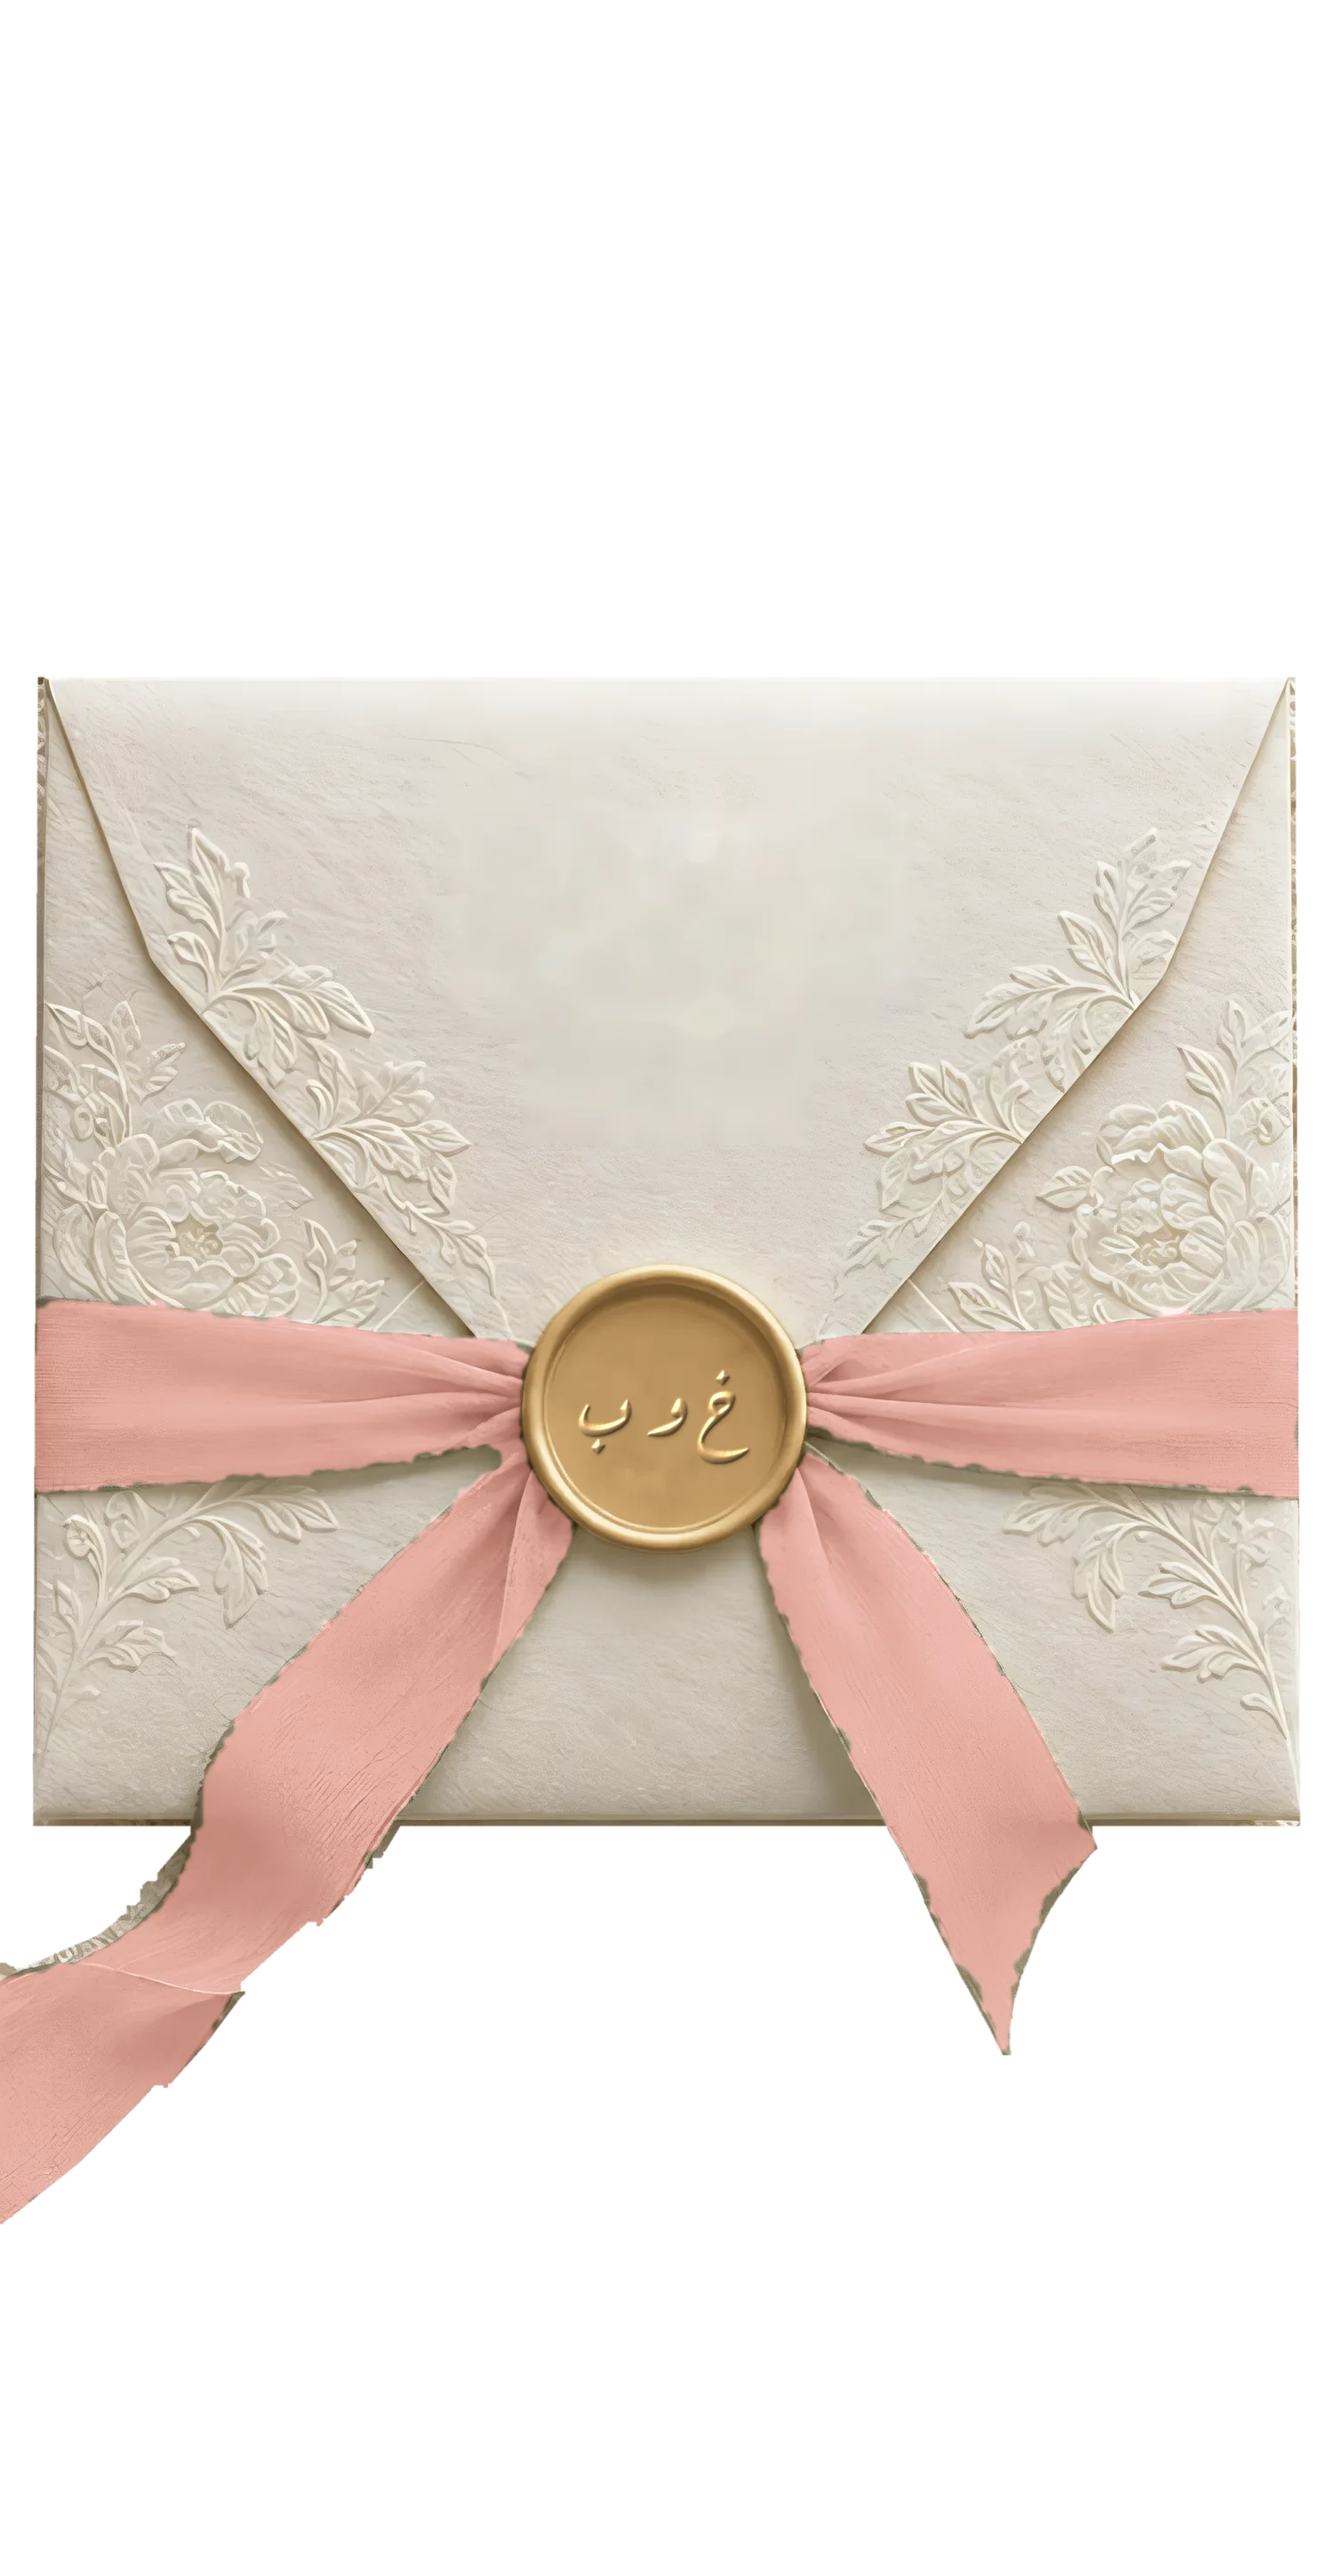
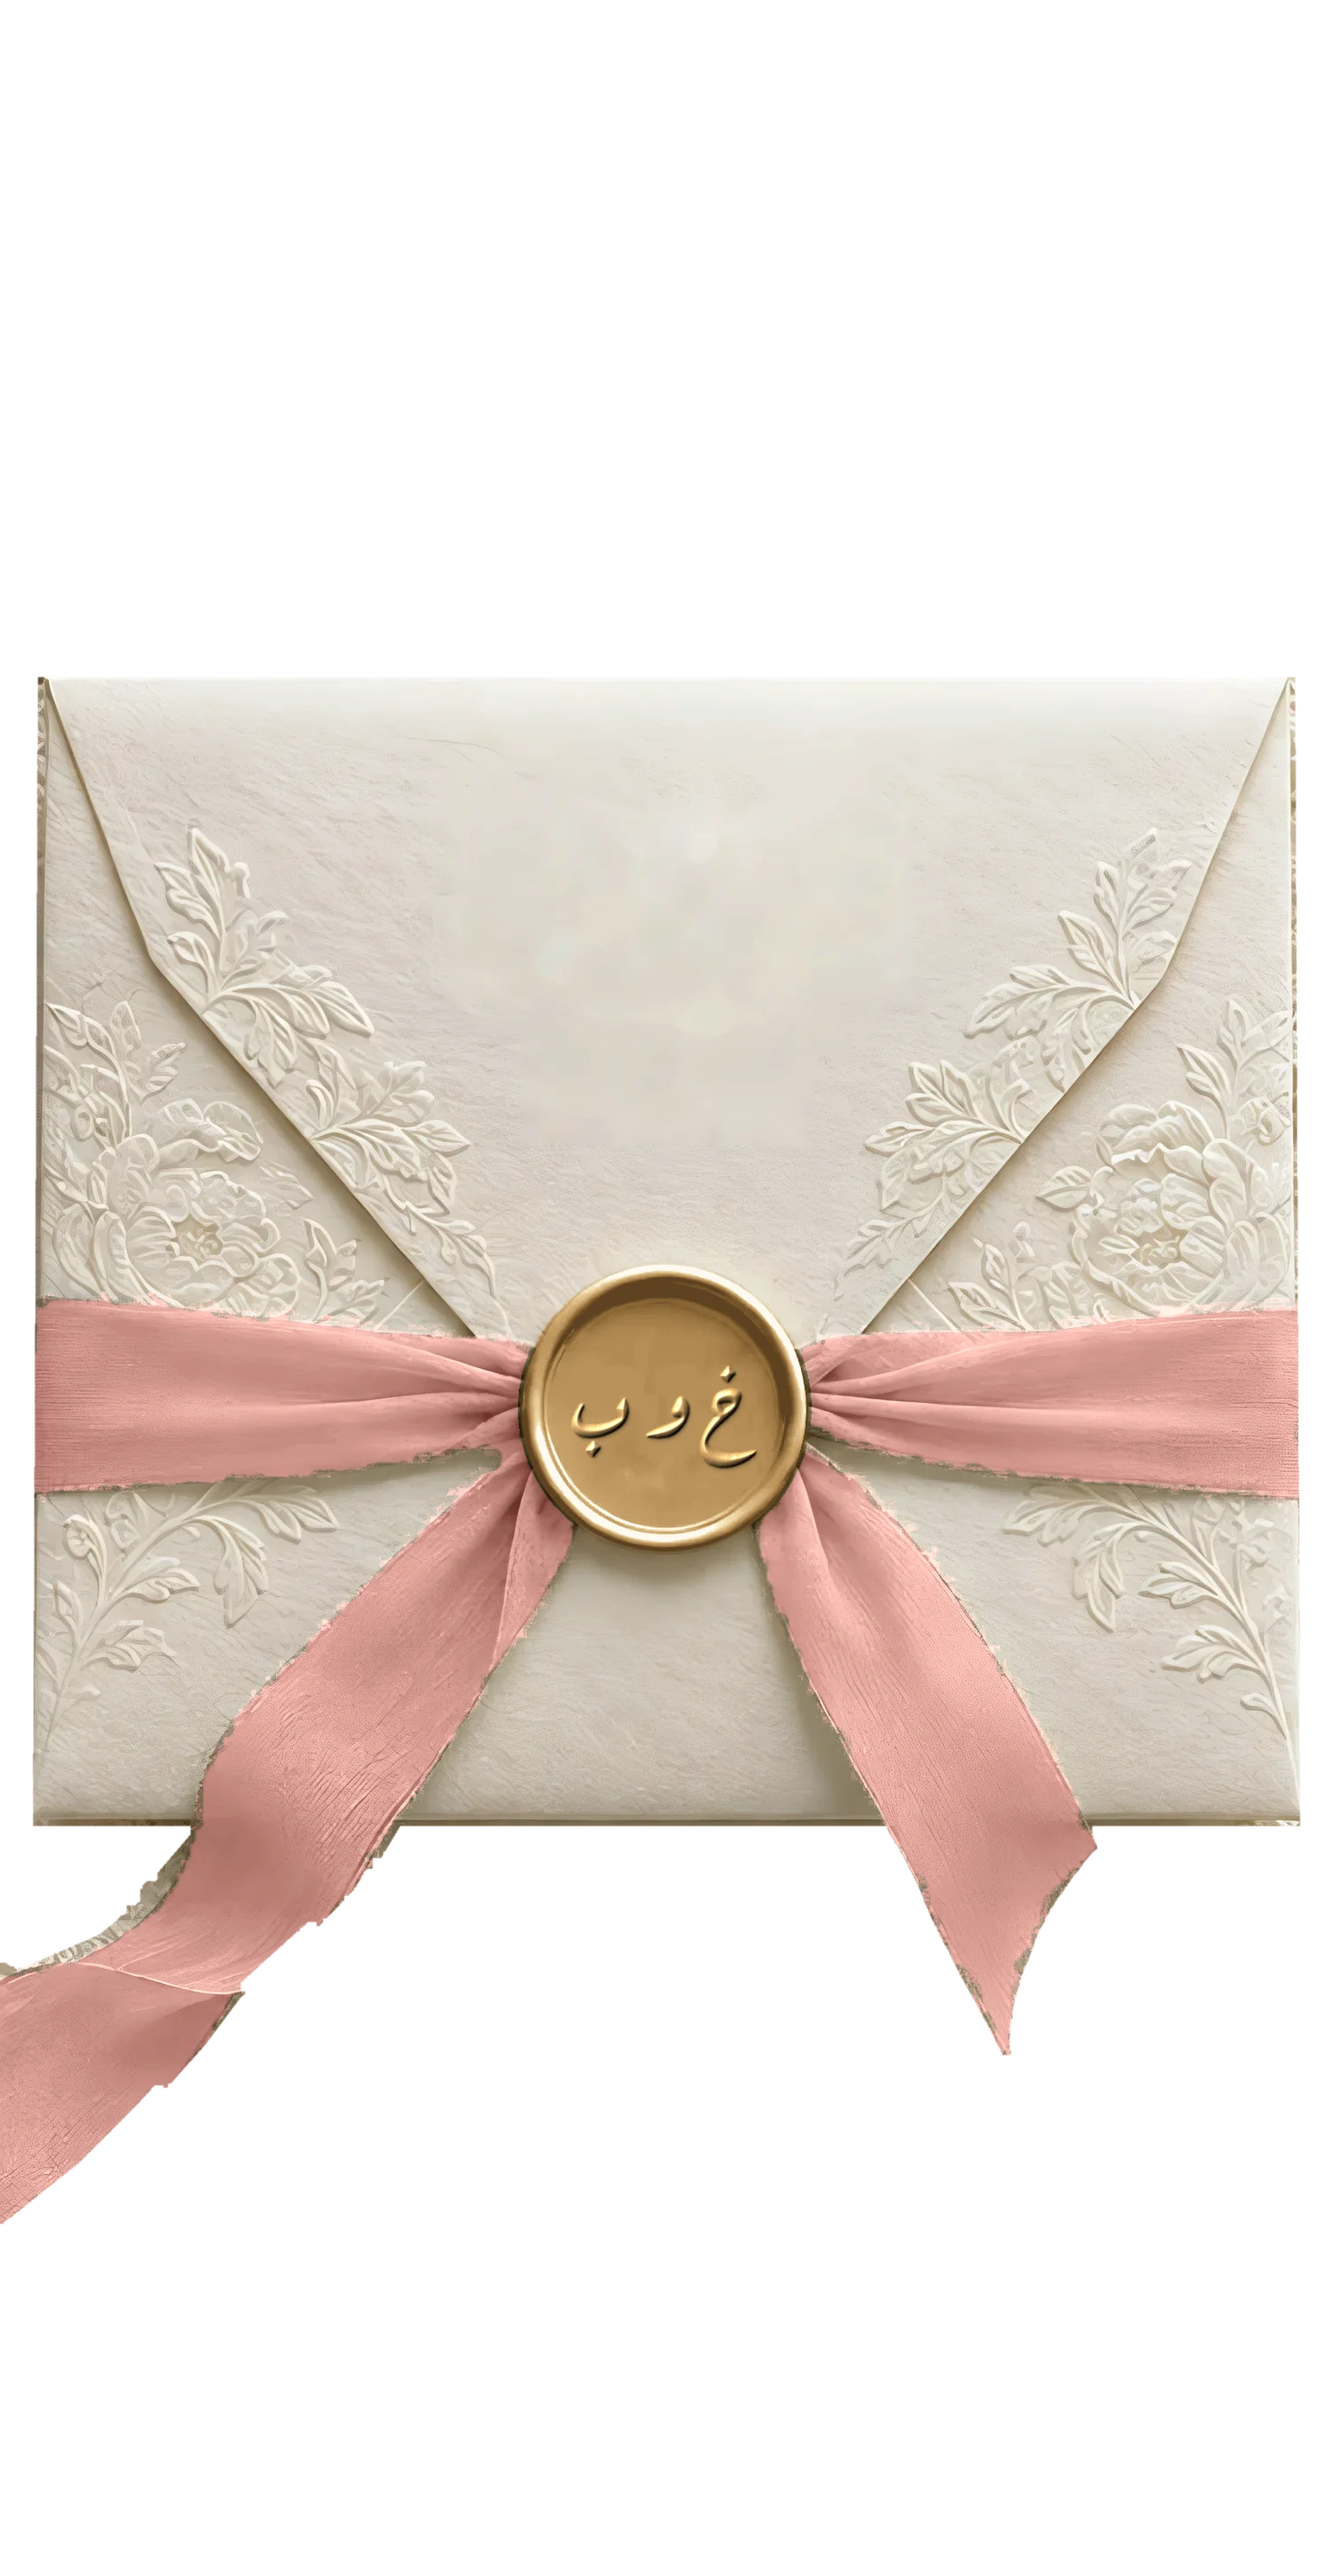
G55weuy بعد ملاحظة المالك ("عك كبير" — شاشة الظرف وحاجات تانية):
- الظرف: الشريطة اتلوّنت من جديد بطريقة بتحافظ على ضل ونور وملمس الشريطة الأصلية (اللون بس اللي اتغيّر)؛ قبل كده كانت خوخي سادة مسطّح وحوافها فيها بواقي رمادي/أخضر. الختم بقى دهبي معدني (لمعة وضل) والحروف "خ و ب" أكبر وأوضح.
- التهنئة الصوتية ورفع الصور: بقوا جزء من الدعوة نفسها (نفس الورق والخطوط والمقاسات بالنسبة لعرض الموبايل) بدل بلوك أبيض منفصل؛ العناوين مابتتكسرش على الشاشات الصغيرة.
- زرار الموسيقى بألوان الدعوة، وفراغ أصغر قبل "بكل محبة لضيوفنا الأعزاء".
- كارت المشاركة بالظرف الجديد.

Claude-Session: https://claude.ai/code/session_01VKo1mDPNtVn8Qfu3XE46sB

Changed region(s): [[0.3373, 0.4665, 0.6747, 0.622], [0.1533, 0.6842, 0.184, 0.7464], [0.0307, 0.5287, 0.0613, 0.5598]]

diff --git a/custom-invitations/G55weuy.js b/custom-invitations/G55weuy.js
@@ -75,12 +75,30 @@ body{background-color:#faf5ee}
 .sent b{color:#8c5a4b}
 /* مفيش ساعة لسه — السطر مستخبّي */
 [data-elem-id="pp15"]{display:none!important}
-/* التهنئة الصوتية ورفع الصور: بنفس ألوان الدعوة وخطوطها */
-#mithaq-extras.gx{--gx-ink:#3b2e2a;--gx-soft:#7a675f;--gx-gold:#c9a26b;--gx-gold2:#e3ab9d;--gx-line:rgba(59,46,42,.22);--gx-paper:#fffaf5;--gx-card:#fdf6f1;
-  --gx-disp:'Aref Ruqaa','Amiri',serif;--gx-body:'Amiri','Times New Roman',serif;--gx-caps:'Reem Kufi','Amiri',serif;margin:10cqw 6cqw 0}
-#mithaq-extras .gx-card{border-radius:4cqw}
-#mithaq-extras .gx-title{color:#8c5a4b}
+/* زرار الموسيقى بألوان الدعوة */
+#music{color:#a8685a;border-color:#dcc6a3}
+/* بعد "بانتظاركم بكل محبة" مفيش فراغ كبير (قسم ألوان اللبس مستخبّي) */
+[data-elem-id="pp45"]{margin-top:8cqw!important}
+/* التهنئة الصوتية ورفع الصور: جزء من الدعوة نفسها (نفس الورق والخطوط والمقاسات) — مش بلوك أبيض منفصل */
+#mithaq-extras.gx{--gx-ink:#3b2e2a;--gx-soft:#7a675f;--gx-gold:#c9a26b;--gx-gold2:#e3ab9d;--gx-line:rgba(59,46,42,.22);--gx-paper:transparent;--gx-card:rgba(255,250,245,.62);
+  --gx-disp:'Aref Ruqaa','Amiri',serif;--gx-body:'Amiri','Times New Roman',serif;--gx-caps:'Reem Kufi','Amiri',serif;
+  background:transparent;padding:4cqw 0 2cqw;margin:0}
+#mithaq-extras .gx-orn{margin-bottom:7cqw}
+#mithaq-extras .gx-card{max-width:none;padding:8cqw 5.5cqw 7cqw;border-radius:3cqw;border:1px solid #dcc6a3;box-shadow:0 1.4cqw 4cqw rgba(120,80,60,.08)}
+#mithaq-extras .gx-card::before{inset:1.6cqw;border-radius:2cqw;border-color:rgba(201,162,107,.45)}
+#mithaq-extras .gx-card + .gx-card{margin-top:7cqw}
+#mithaq-extras .gx-eyebrow{font:500 3.7cqw/1.4 'Reem Kufi',var(--ar);color:#986a4f;letter-spacing:0}
+#mithaq-extras .gx-title{margin-top:1.6cqw;font:700 8.6cqw/1.45 'Aref Ruqaa',var(--ar);color:#8c5a4b;-webkit-text-stroke:0;white-space:nowrap}
+#mithaq-extras .gx-sub{margin-top:1.4cqw;font:400 4.4cqw/1.85 'Amiri',serif;color:#6a5048}
+#mithaq-extras .gx-rec{margin-top:6cqw}
+#mithaq-extras .gx-idle,#mithaq-extras .gx-slide{font-size:4.3cqw}
+#mithaq-extras .gx-label{font:500 3.8cqw/1.4 'Reem Kufi',var(--ar);color:#5b3b33;letter-spacing:0}
+#mithaq-extras .gx-input{font:400 4.6cqw/1.4 'Amiri',serif;color:#3b2e2a}
 #mithaq-extras .gx-btn,#mithaq-extras .gx-mic{background:linear-gradient(#e7b3a5,#cf9483);border-color:#c48676;color:#fff}
+#mithaq-extras .gx-btn{border-radius:99px;font:700 4.6cqw/1 'Amiri',serif;letter-spacing:0;height:12cqw;min-height:44px;box-shadow:0 1cqw 2.6cqw rgba(160,95,80,.28)}
+#mithaq-extras .gx-note{font:400 3.7cqw/1.7 'Amiri',serif;color:#7a675f}
+#mithaq-extras .gx-sent-t{font:700 6.4cqw/1.4 'Aref Ruqaa',var(--ar);color:#8c5a4b}
+#mithaq-extras .gx-sent-n,#mithaq-extras .gx-status,#mithaq-extras .gx-toast,#mithaq-extras .gx-err{font-family:'Amiri',serif;font-size:4cqw}
 </style>`;
 
 module.exports = {
